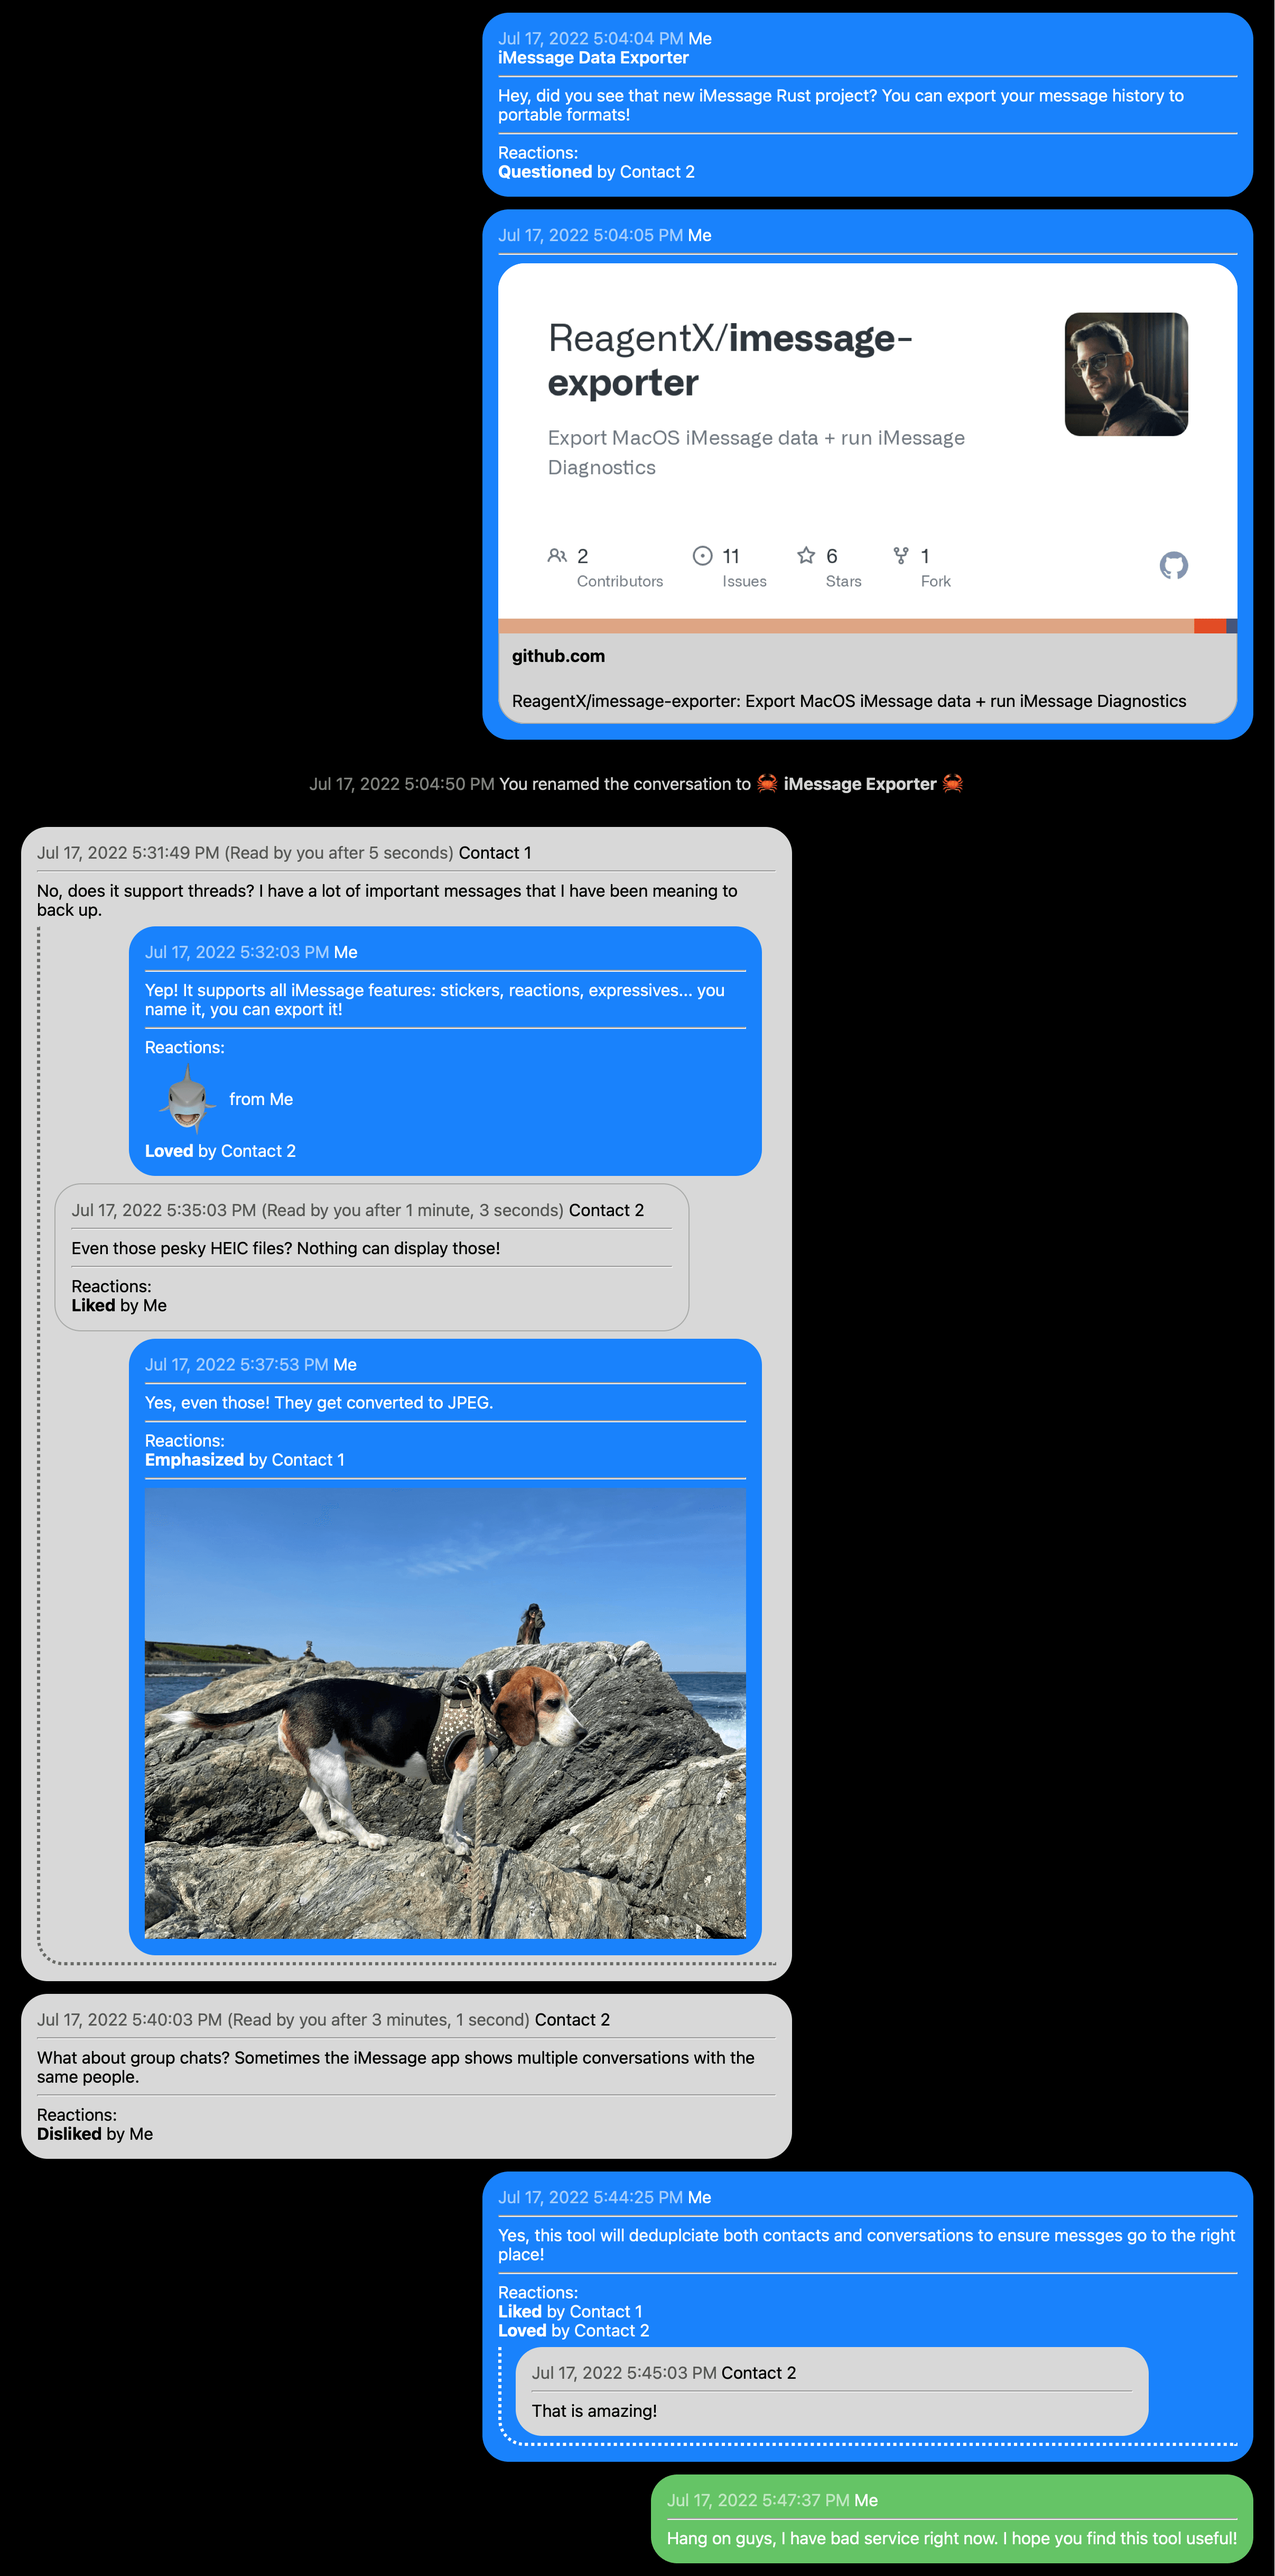
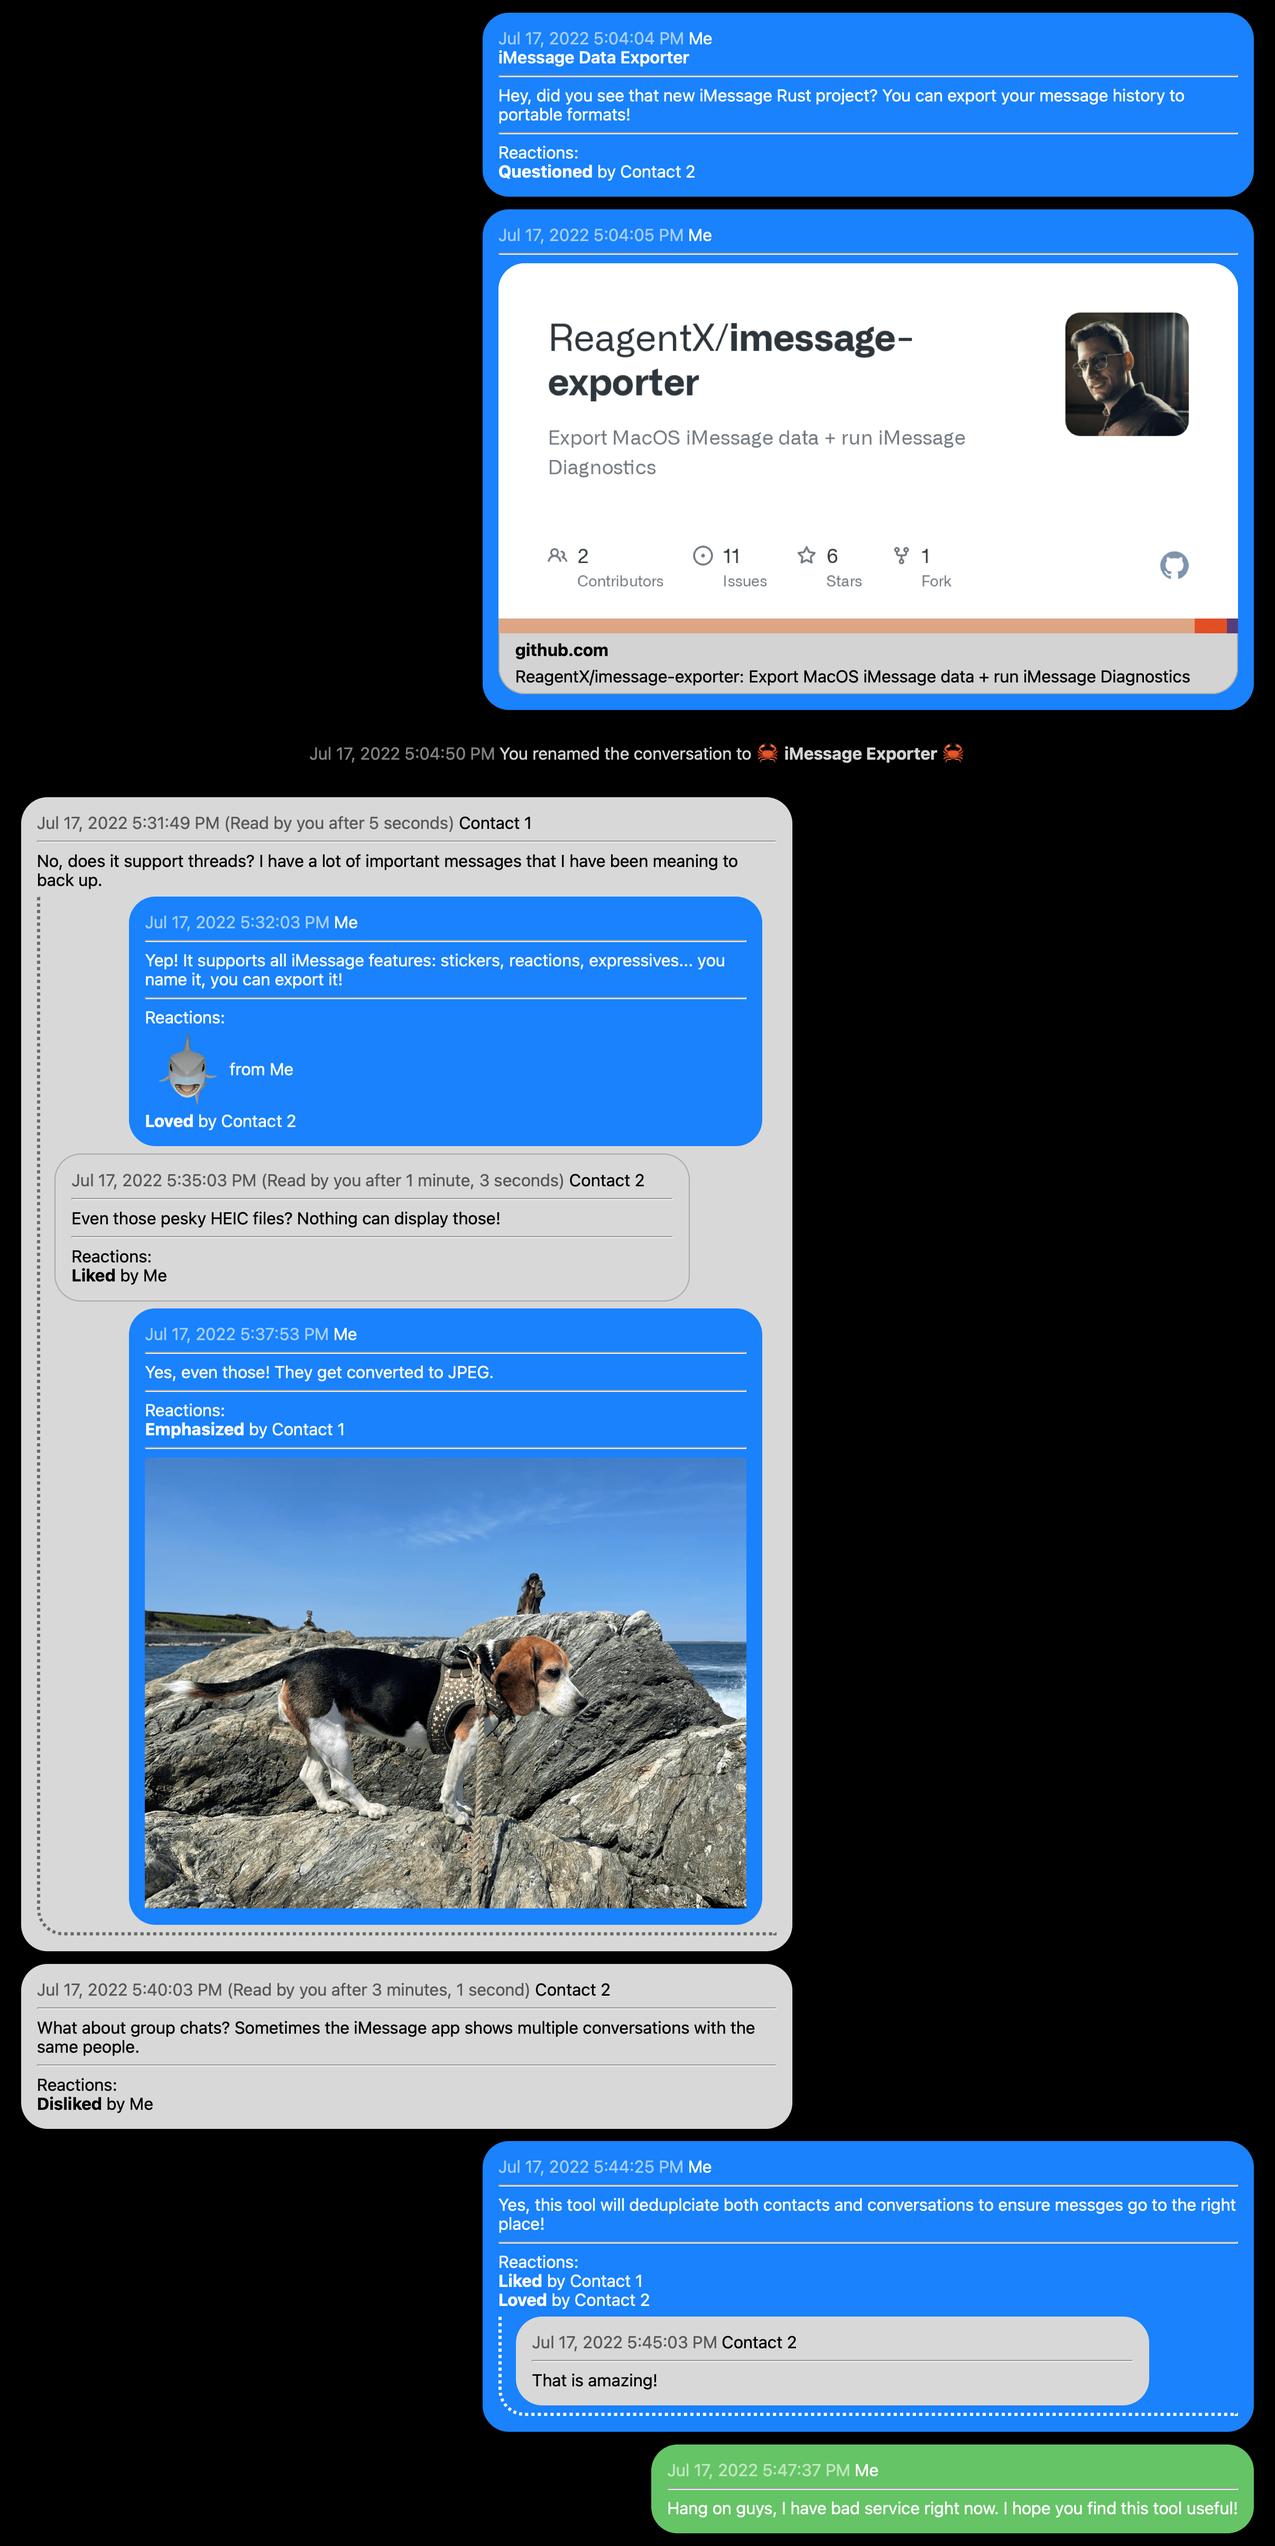
Better spacing for app messages

diff --git a/imessage-exporter/src/exporters/resources/style.css b/imessage-exporter/src/exporters/resources/style.css
@@ -105,6 +105,7 @@ xmp {
 	border-top-left-radius: 25px;
 	border-top-right-radius: 25px;
 	color: black;
+	padding-bottom: 1%;
 }
 
 
@@ -118,24 +119,32 @@ xmp {
 
 
 .app_header .image_title {
-	padding: 1vw;
+	margin-top: 1%;
+	padding-left: 15px;
+	padding-right: 15px;
 	overflow: auto;
 }
 
 
 .app_header .image_subtitle {
-	padding: 1vw;
+	margin-top: 1%;
+	padding-left: 15px;
+	padding-right: 15px;
 	overflow: auto;
 }
 
 .app_header .ldtext {
-	padding: 1vw;
+	margin-top: 1%;
+	padding-left: 15px;
+	padding-right: 15px;
 	overflow: auto;
 }
 
 .app_header .name {
 	font-weight: 600;
-	padding: 1vw;
+	margin-top: 1%;
+	padding-left: 15px;
+	padding-right: 15px;
 	overflow: auto;
 }
 
@@ -159,31 +168,40 @@ xmp {
 	border-width: thin;
 	color: black;
 	background: lightgray;
+	padding-bottom: 1%;
 }
 
 .app_footer .caption {
 	grid-area: caption;
-	padding: 1vw;
+	margin-top: 1%;
+	padding-left: 15px;
+	padding-right: 15px;
 	overflow: auto;
 }
 
 .app_footer .subcaption {
 	grid-area: subcaption;
-	padding: 1vw;
+	margin-top: 1%;
+	padding-left: 15px;
+	padding-right: 15px;
 	overflow: auto;
 }
 
 .app_footer .trailing_caption {
 	grid-area: trailing_caption;
 	text-align: right;
-	padding: 1vw;
+	margin-top: 1%;
+	padding-left: 15px;
+	padding-right: 15px;
 	overflow: auto;
 }
 
 .app_footer .trailing_subcaption {
 	grid-area: trailing_subcaption;
 	text-align: right;
-	padding: 1vw;
+	margin-top: 1%;
+	padding-left: 15px;
+	padding-right: 15px;
 	overflow: auto;
 }
 
